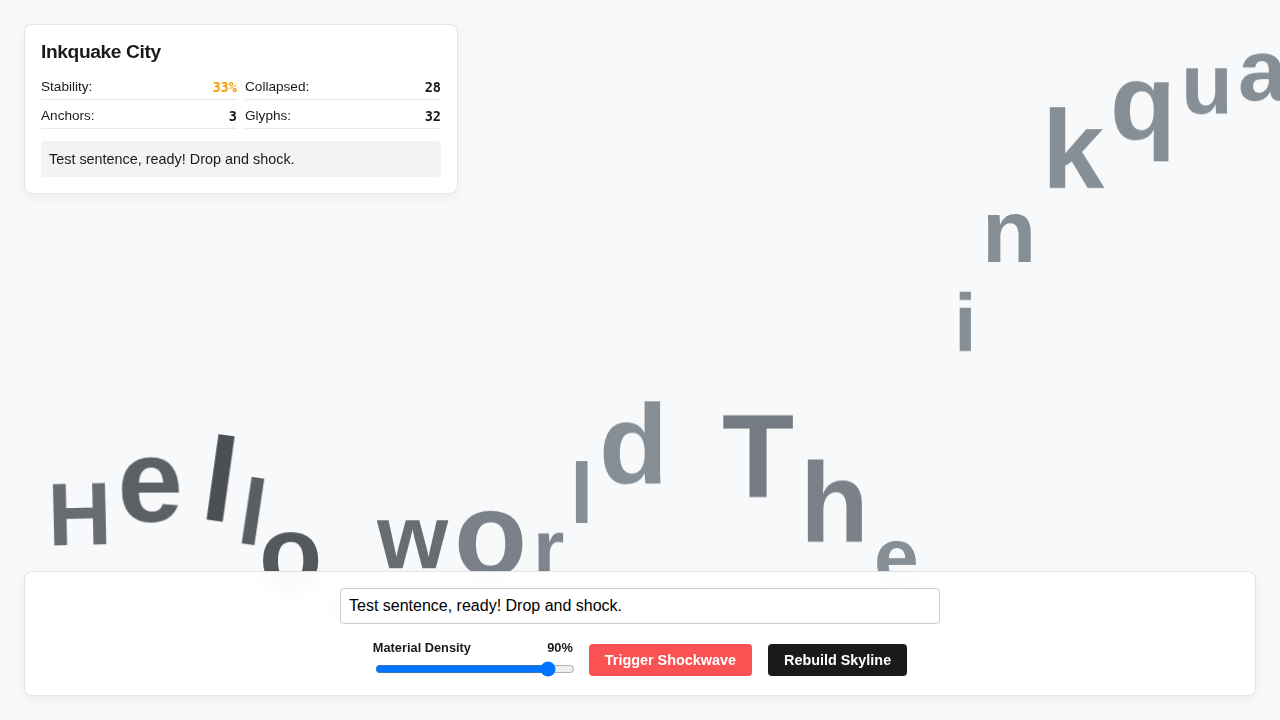
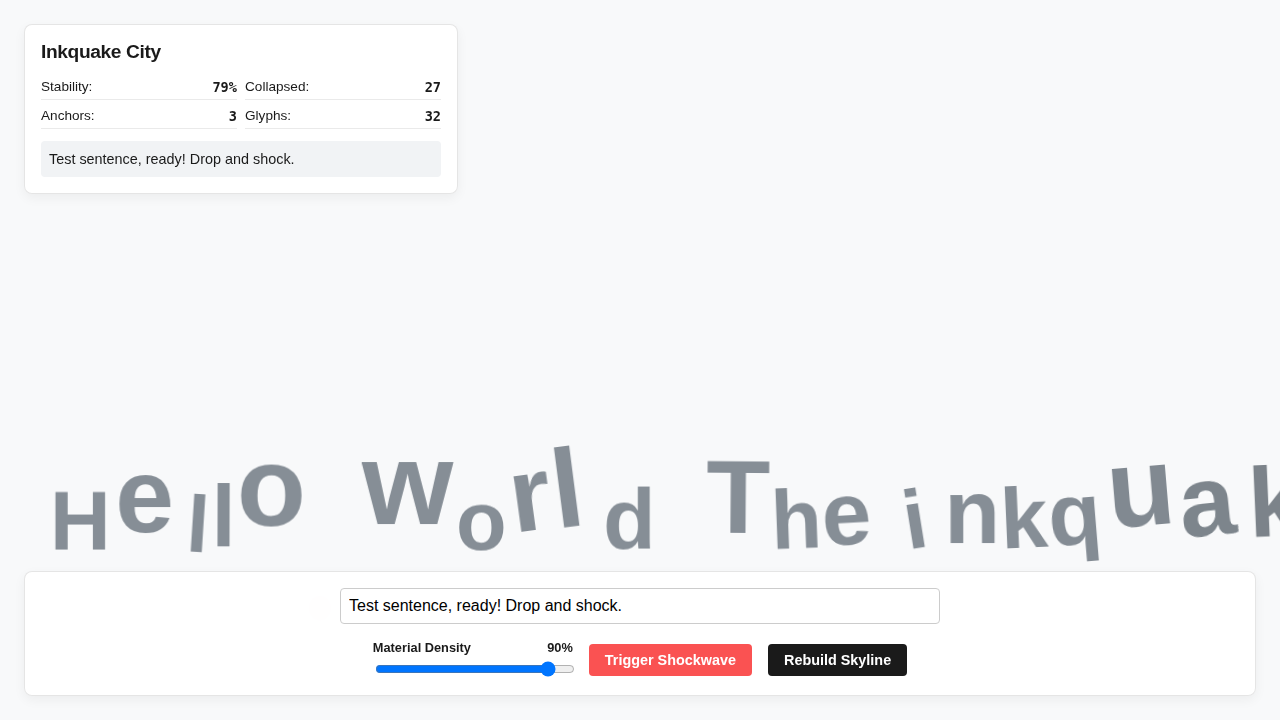
fix(inkquake-city): resolve Rapier WASM aliasing errors during rebuild
- Extract required coordinate values directly into GSAP callbacks to avoid capturing Rapier proxy objects across evaluation boundaries.
- Implement a `kinematicQueue` to apply kinematic positional updates to Rapier bodies safely before `world.step()`, avoiding mutation conflicts.
- Verified stable playback via `runDemo()` with zero console errors and successful skyline reconstruction.

diff --git a/tier-lib/inkquake-city/index.html b/tier-lib/inkquake-city/index.html
@@ -405,7 +405,12 @@
             ease: "bounce.out",
             delay: i * 0.05,
             onUpdate: function() {
-              body.setNextKinematicTranslation({ x: textSprite.x / physicsScale, y: textSprite.y / physicsScale });
+              // Extract handles directly to prevent capturing the entire body proxy in Playwright context
+              const nx = textSprite.x / physicsScale;
+              const ny = textSprite.y / physicsScale;
+              if (body.bodyType() === RAPIER.RigidBodyType.KinematicPositionBased) {
+                body.setNextKinematicTranslation({ x: nx, y: ny });
+              }
             },
             onComplete: function() {
               body.setBodyType(RAPIER.RigidBodyType.Dynamic);
@@ -453,6 +458,9 @@
       });
     }
 
+    // Queue for GSAP updates to avoid mutating Rapier state during world.step()
+    const kinematicQueue = [];
+
     function rebuildSkyline() {
       glyphs.forEach((g, i) => {
         if (!g.isAnchor && g.body) {
@@ -469,8 +477,11 @@
             duration: 1.5,
             ease: "back.out(1.2)",
             onUpdate: function() {
-              g.body.setNextKinematicTranslation({ x: g.sprite.x / physicsScale, y: g.sprite.y / physicsScale });
-              g.body.setNextKinematicRotation(g.sprite.rotation);
+              kinematicQueue.push({
+                body: g.body,
+                pos: { x: g.sprite.x / physicsScale, y: g.sprite.y / physicsScale },
+                rot: g.sprite.rotation
+              });
             },
             onComplete: function() {
               g.body.setBodyType(RAPIER.RigidBodyType.Dynamic);
@@ -484,6 +495,18 @@
 
     function gameLoop() {
       if (!world) return;
+
+      // Process queued kinematic updates before step
+      while (kinematicQueue.length > 0) {
+        const update = kinematicQueue.shift();
+        if (update.body.bodyType() === RAPIER.RigidBodyType.KinematicPositionBased) {
+          update.body.setNextKinematicTranslation(update.pos);
+          if (update.rot !== undefined) {
+             update.body.setNextKinematicRotation(update.rot);
+          }
+        }
+      }
+
       world.step();
 
       let totalDeviation = 0;
